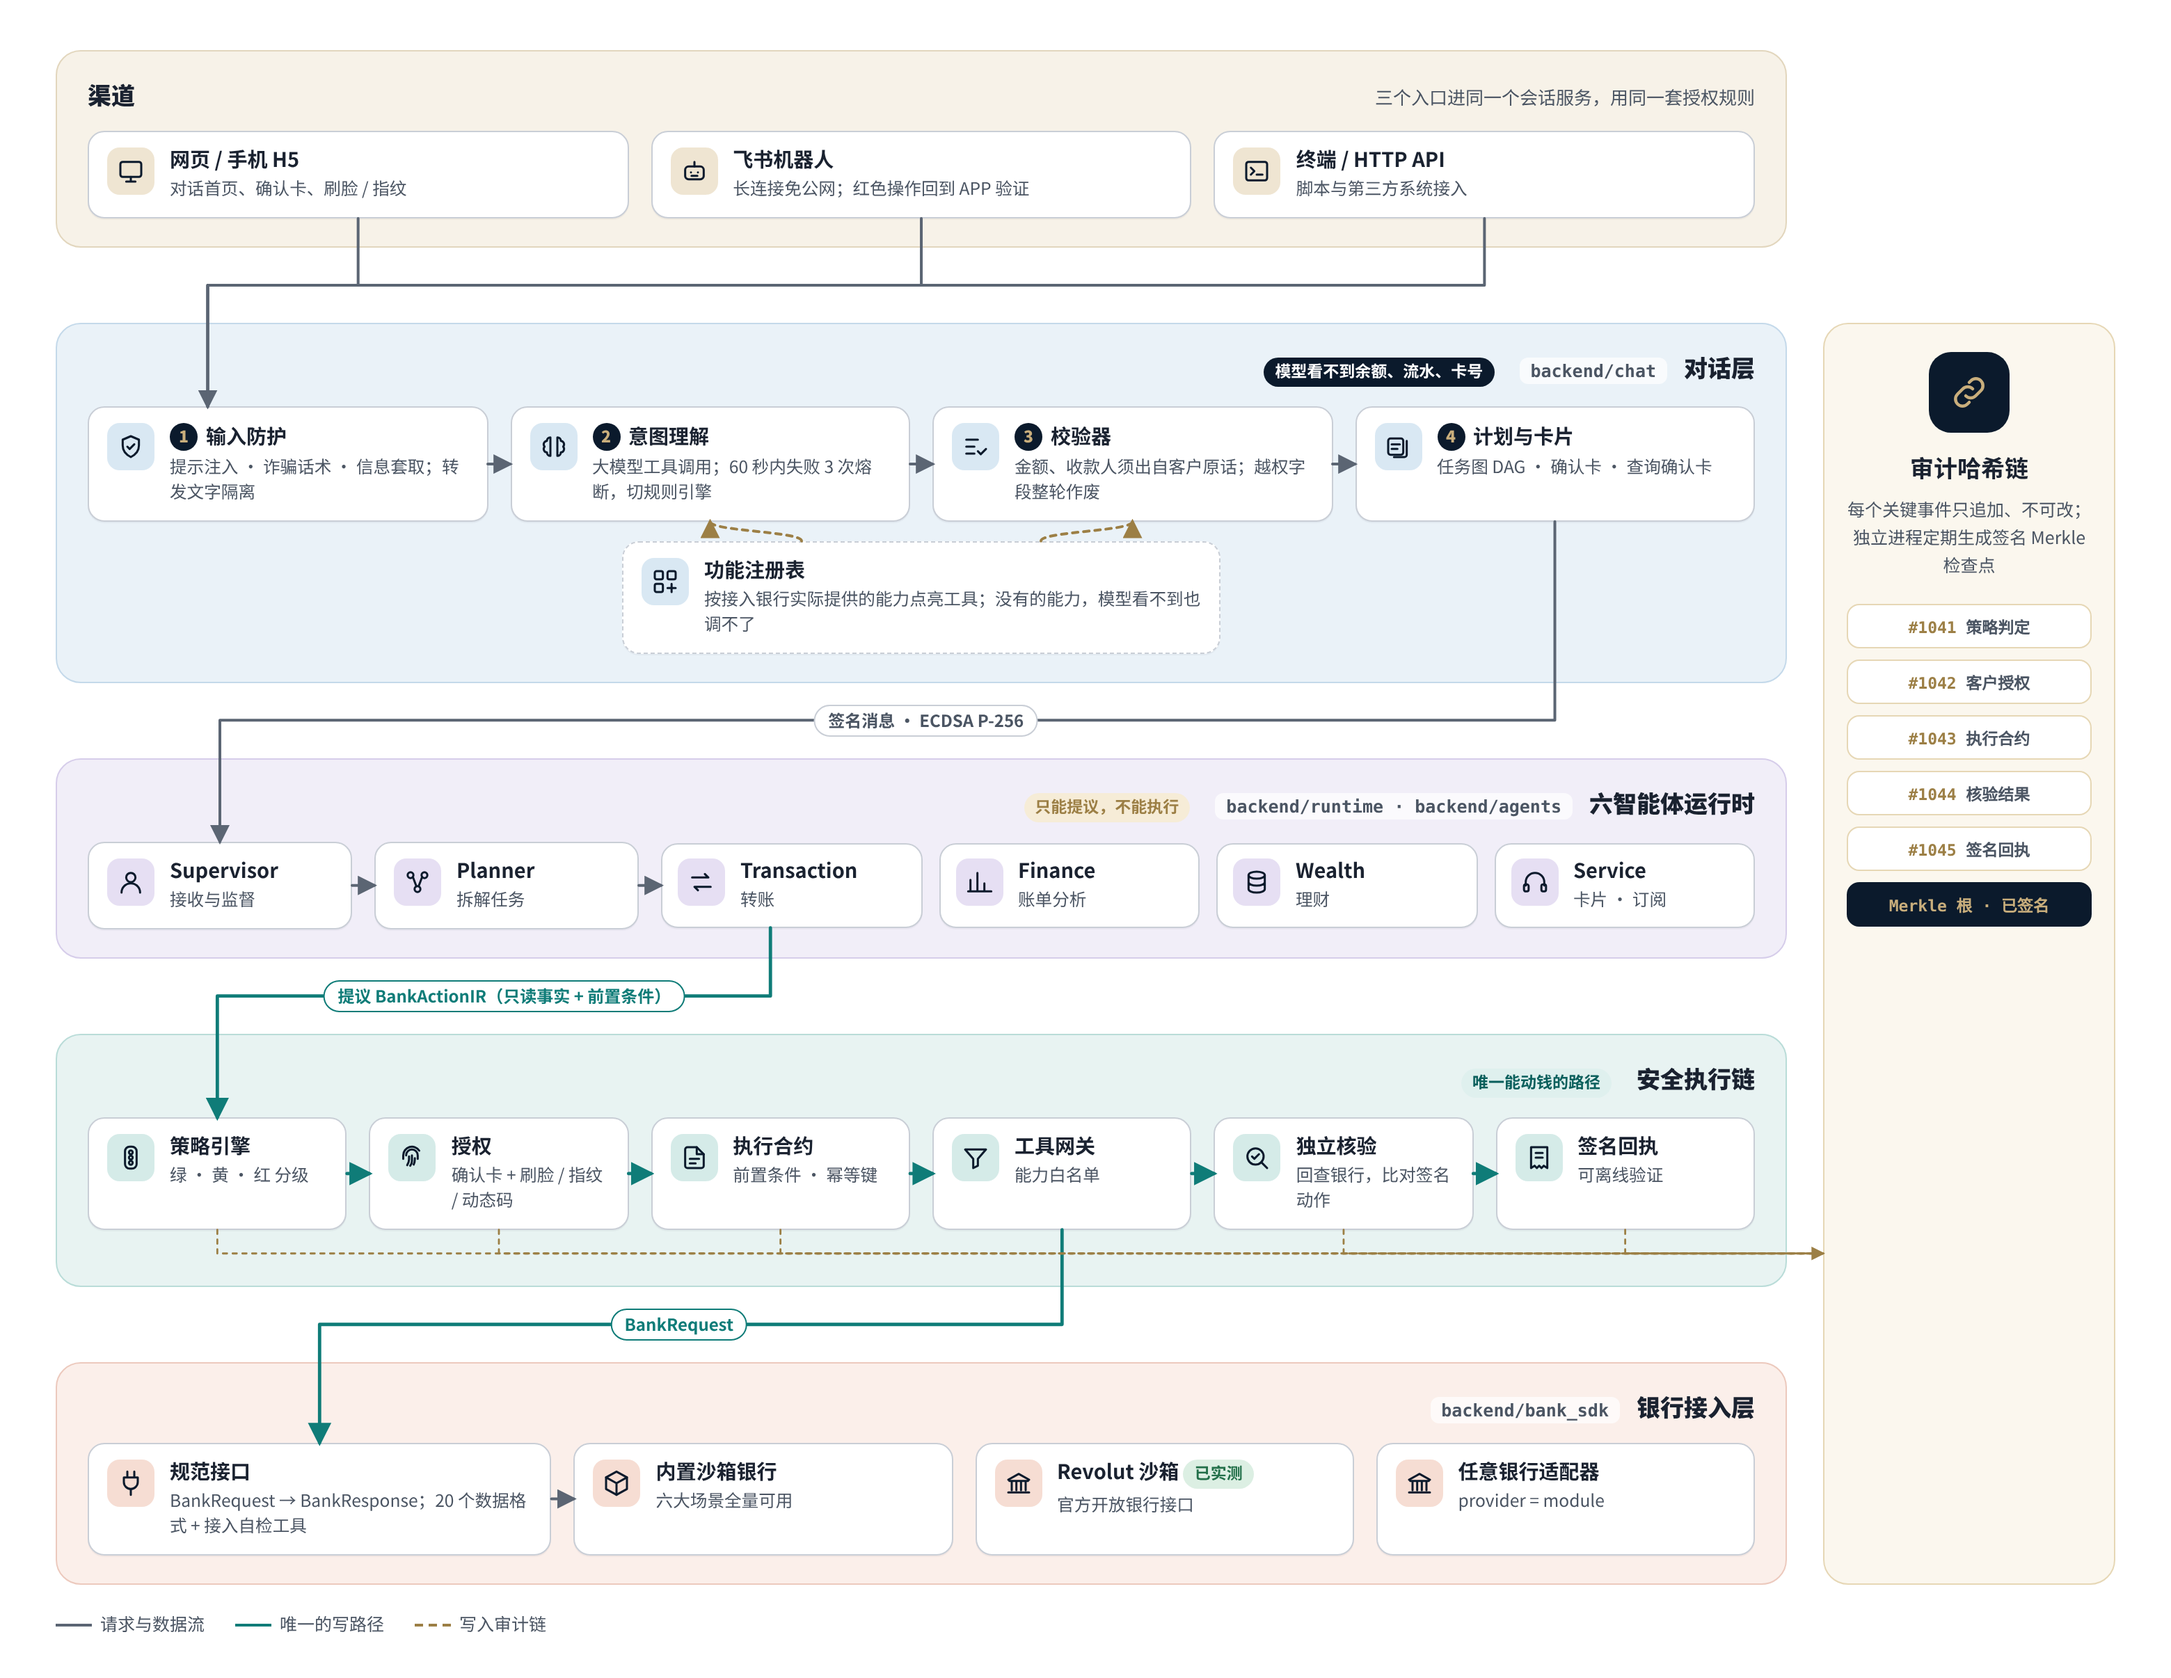
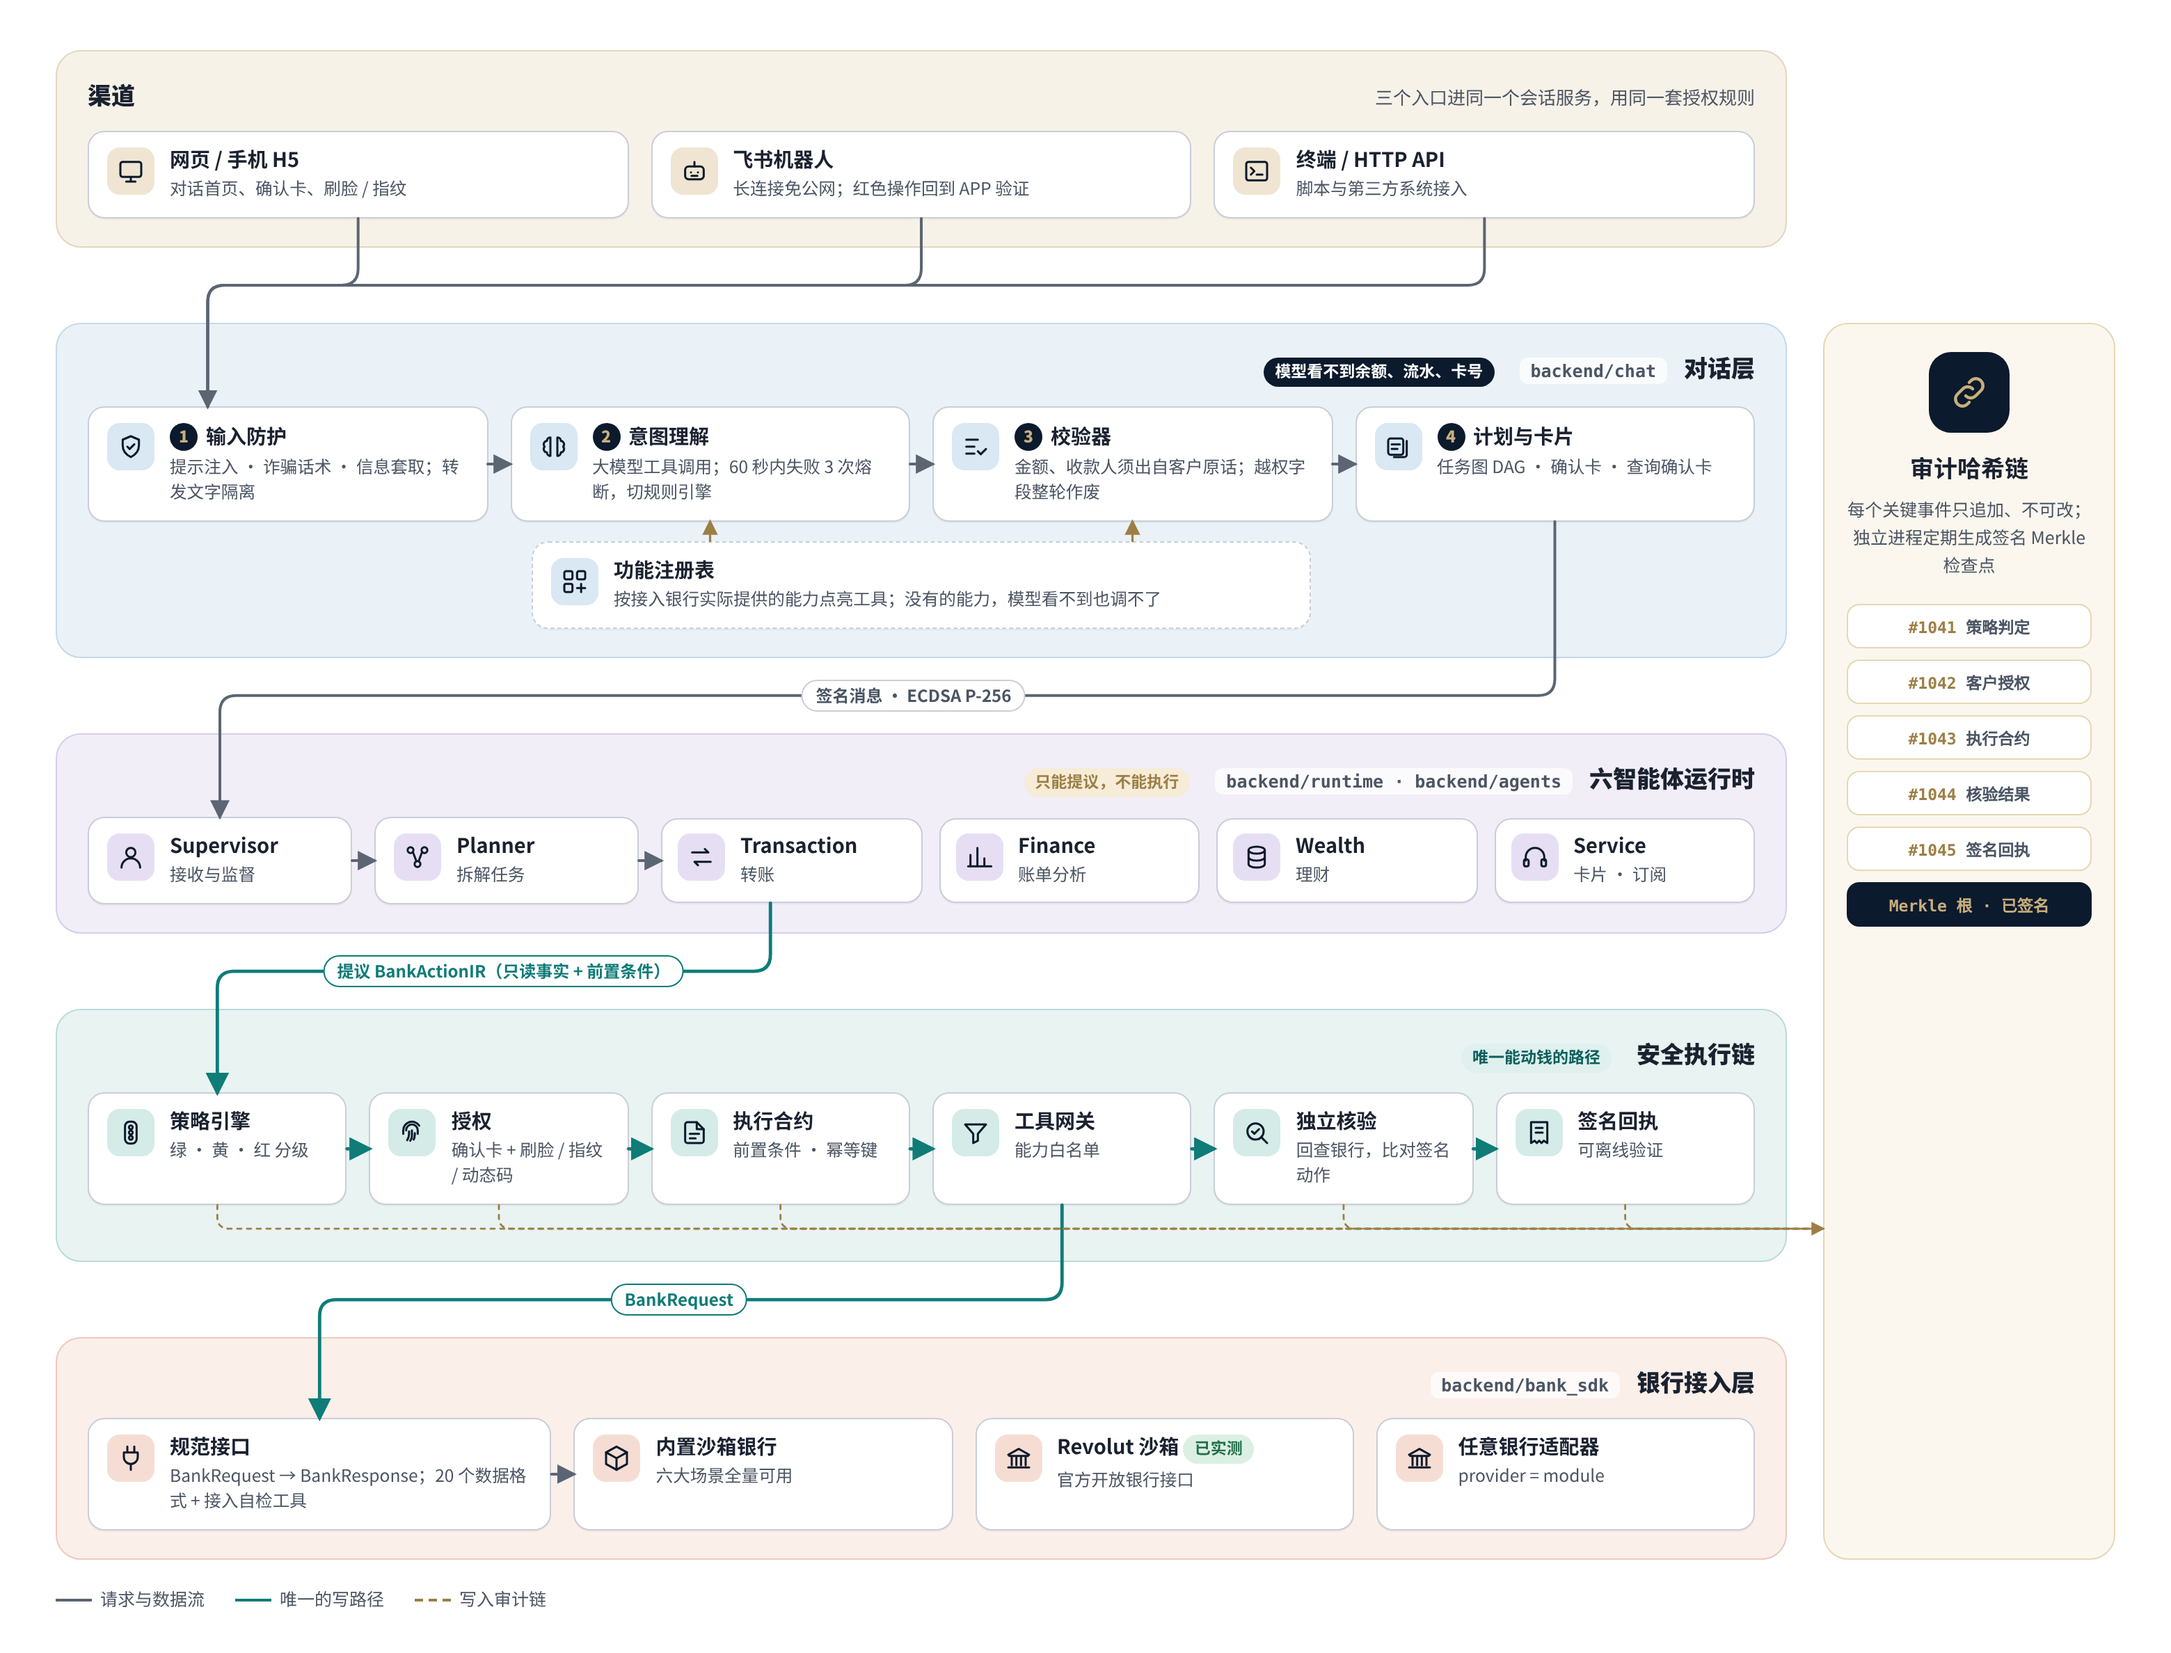
Technical figures: rounded connector corners; registry connectors straight into the cards they feed

diff --git a/docs/figures/tech/src/fig.js b/docs/figures/tech/src/fig.js
@@ -67,14 +67,28 @@ function pt(el, side, frac = 0.5) {
   const x = r.left - f.left, y = r.top - f.top;
   return { r: [x + r.width, y + r.height * frac], l: [x, y + r.height * frac], t: [x + r.width * frac, y], b: [x + r.width * frac, y + r.height] }[side];
 }
+// polyline with rounded corners (radius shrinks on short segments; collinear points are skipped)
+function rounded(pts, r) {
+  pts = pts.filter((p, i) => i === 0 || p[0] !== pts[i - 1][0] || p[1] !== pts[i - 1][1]);
+  let d = `M${pts[0][0]} ${pts[0][1]}`;
+  for (let i = 1; i < pts.length - 1; i++) {
+    const [px, py] = pts[i - 1], [x, y] = pts[i], [nx, ny] = pts[i + 1];
+    const l1 = Math.hypot(x - px, y - py), l2 = Math.hypot(nx - x, ny - y);
+    if (!l1 || !l2 || (px === x && x === nx) || (py === y && y === ny)) { d += `L${x} ${y}`; continue; }
+    const k = Math.min(r, l1 / 2, l2 / 2);
+    d += `L${x - (x - px) / l1 * k} ${y - (y - py) / l1 * k}Q${x} ${y} ${x + (nx - x) / l2 * k} ${y + (ny - y) / l2 * k}`;
+  }
+  const last = pts[pts.length - 1];
+  return d + `L${last[0]} ${last[1]}`;
+}
 function wire(a, b, o = {}) {
   const A = document.getElementById(a), B = document.getElementById(b);
   const [x1, y1] = pt(A, o.from || "r", o.ff ?? 0.5), [x2, y2] = pt(B, o.to || "l", o.tf ?? 0.5);
   const color = o.color || "#5b6573";
   let d;
   if (o.straight) d = `M${x1} ${y1}L${x2} ${y2}`;
-  else if (o.elbow === "v") { const my = o.at ?? (y1 + y2) / 2; d = `M${x1} ${y1}V${my}H${x2}V${y2}`; }
-  else if (o.elbow === "h") { const mx = o.at ?? (x1 + x2) / 2; d = `M${x1} ${y1}H${mx}V${y2}H${x2}`; }
+  else if (o.elbow === "v") { const my = o.at ?? (y1 + y2) / 2; d = rounded([[x1, y1], [x1, my], [x2, my], [x2, y2]], o.r ?? 12); }
+  else if (o.elbow === "h") { const mx = o.at ?? (x1 + x2) / 2; d = rounded([[x1, y1], [mx, y1], [mx, y2], [x2, y2]], o.r ?? 12); }
   else {
     const k = o.bend ?? 0.5, vert = (o.from === "b" || o.from === "t");
     d = vert ? `M${x1} ${y1}C${x1} ${y1 + (y2 - y1) * k},${x2} ${y2 - (y2 - y1) * k},${x2} ${y2}`

diff --git a/docs/figures/tech/src/architecture.html b/docs/figures/tech/src/architecture.html
@@ -57,7 +57,7 @@
           <div class="card" id="c-plan"><span class="ic" data-icon="cards" data-bg="#d9e8f3"></span><div><div class="t"><span class="num">4</span>计划与卡片</div><div class="d">任务图 DAG · 确认卡 · 查询确认卡</div></div></div>
         </div>
         <div style="display:flex;justify-content:center;margin-top:14px">
-          <div class="card" id="c-reg" style="width:430px;border-style:dashed"><span class="ic" data-icon="grid" data-bg="#d9e8f3"></span><div><div class="t">功能注册表</div><div class="d">按接入银行实际提供的能力点亮工具；没有的能力，模型看不到也调不了</div></div></div>
+          <div class="card" id="c-reg" style="width:560px;border-style:dashed"><span class="ic" data-icon="grid" data-bg="#d9e8f3"></span><div><div class="t">功能注册表</div><div class="d">按接入银行实际提供的能力点亮工具；没有的能力，模型看不到也调不了</div></div></div>
         </div>
       </section>
 
@@ -127,8 +127,11 @@
   wire("c-guard", "c-und", { color: G, straight: true });
   wire("c-und", "c-val", { color: G, straight: true });
   wire("c-val", "c-plan", { color: G, straight: true });
-  wire("c-reg", "c-und", { from: "t", to: "b", color: D, dash: "4 4", ff: 0.3 });
-  wire("c-reg", "c-val", { from: "t", to: "b", color: D, dash: "4 4", ff: 0.7 });
+  // registry feeds understanding and validation: straight up into the centre of each card
+  for (const target of ["c-und", "c-val"]) {
+    const reg = box("c-reg"), t = box(target);
+    wire("c-reg", target, { from: "t", to: "b", straight: true, color: D, dash: "4 4", width: 1.6, ff: (t.left + t.width / 2 - reg.left) / reg.width });
+  }
   // chat -> agents (signed messages)
   wire("c-plan", "c-sup", { from: "b", to: "t", color: G, elbow: "v", at: gap("b-chat", "b-ag"), label: "签名消息 · ECDSA P-256", lpos: 0.5 });
   wire("c-sup", "c-pl", { color: G, straight: true });
